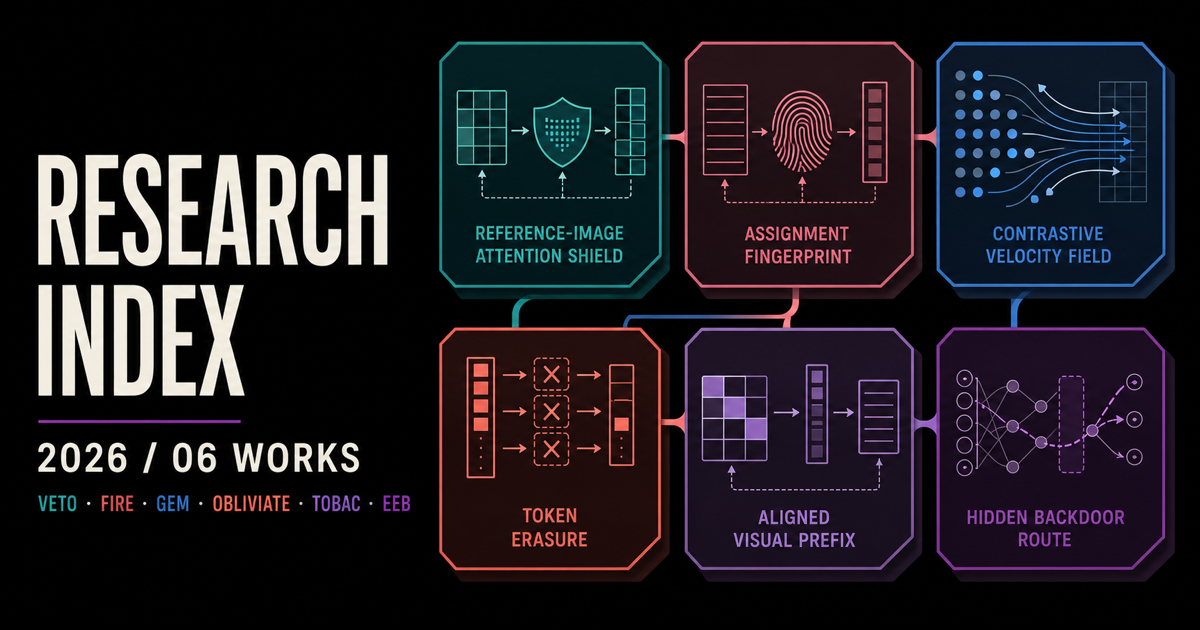
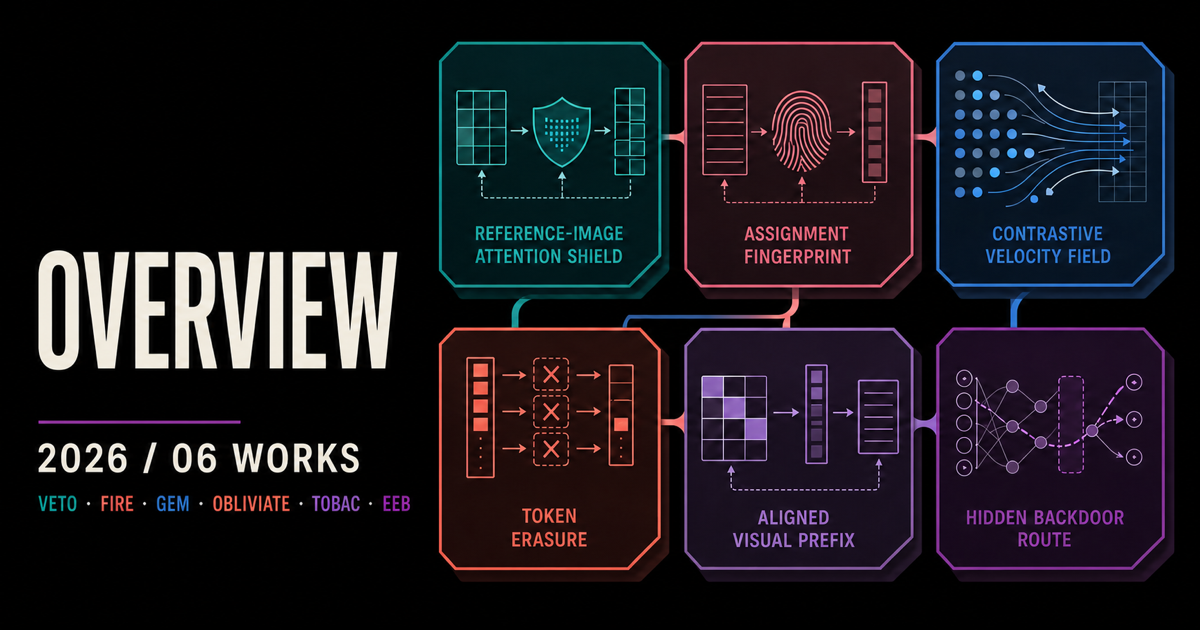
Update authors and overview branding

diff --git a/app/components.tsx b/app/components.tsx
@@ -2,12 +2,41 @@ import Link from "next/link";
 import type { Project } from "@/data/projects";
 import { ThemeToggle } from "./theme-toggle";
 
+const verifiedScholarProfiles: Record<string, string> = {
+  "Anna Rohrbach":
+    "https://scholar.google.com/citations?user=GHpxNQIAAAAJ&hl=en",
+  "Hossein Shakibania":
+    "https://scholar.google.com/citations?user=huveR90AAAAJ",
+  "Marcus Rohrbach":
+    "https://scholar.google.com/citations?user=3kDtybgAAAAJ&hl=en",
+};
+
+const scholarSearchAliases: Record<string, string> = {
+  "Jonas Grebe": "Jonas Henry Grebe",
+};
+
+function googleScholarUrl(authorName: string) {
+  const profile = verifiedScholarProfiles[authorName];
+
+  if (profile) {
+    return profile;
+  }
+
+  const searchName = scholarSearchAliases[authorName] ?? authorName;
+  const query = new URLSearchParams({
+    view_op: "search_authors",
+    mauthors: searchName,
+  });
+
+  return `https://scholar.google.com/citations?${query.toString()}`;
+}
+
 export function SiteHeader() {
   return (
     <header className="site-header">
       <div className="header-inner">
         <Link className="site-wordmark" href="/" aria-label="Back to all projects">
-          Research Index
+          Overview
         </Link>
         <div className="header-actions">
           <Link className="back-link" href="/">
@@ -94,11 +123,14 @@ export function AuthorList({ project }: { project: Project }) {
       <p className="author-list">
         {project.authors.map((author, index) => (
           <span key={author.name}>
-            {author.href ? (
-              <a href={author.href}>{author.name}</a>
-            ) : (
-              author.name
-            )}
+            <a
+              href={author.href ?? googleScholarUrl(author.name)}
+              target="_blank"
+              rel="noreferrer"
+              aria-label={`View ${author.name} on Google Scholar`}
+            >
+              {author.name}
+            </a>
             {author.equalContribution ? (
               <sup aria-label="equal contribution">*</sup>
             ) : null}

diff --git a/app/globals.css b/app/globals.css
@@ -185,25 +185,11 @@ button {
     box-shadow 160ms ease;
 }
 
-.site-wordmark::after {
-  content: "↗";
-  color: var(--muted);
-  font-size: 13px;
-  transition:
-    color 160ms ease,
-    transform 160ms ease;
-}
-
 .site-wordmark:hover {
   transform: translateY(-1px);
   border-color: color-mix(in srgb, var(--text) 34%, var(--line));
   background: var(--surface-raised);
   box-shadow: 0 7px 18px rgba(17, 18, 15, 0.08);
-}
-
-.site-wordmark:hover::after {
-  color: var(--text);
-  transform: translate(2px, -2px);
 }
 
 .site-wordmark:active {
@@ -397,6 +383,7 @@ button {
 .resource-link:focus-visible,
 .back-link:focus-visible,
 .copy-button:focus-visible,
+.author-list a:focus-visible,
 .site-wordmark:focus-visible {
   outline: 3px solid
     color-mix(in srgb, var(--accent, var(--cobalt)) 58%, transparent);
@@ -1135,6 +1122,22 @@ button {
   color: var(--accent);
   font-size: 9px;
   font-weight: 750;
+}
+
+.author-list a {
+  color: inherit;
+  text-decoration: underline;
+  text-decoration-color: color-mix(in srgb, var(--muted) 44%, transparent);
+  text-decoration-thickness: 1px;
+  text-underline-offset: 3px;
+  transition:
+    color 160ms ease,
+    text-decoration-color 160ms ease;
+}
+
+.author-list a:hover {
+  color: var(--accent);
+  text-decoration-color: currentColor;
 }
 
 .author-note {

diff --git a/app/layout.tsx b/app/layout.tsx
@@ -8,31 +8,31 @@ const absoluteSiteUrl = siteUrl.endsWith("/") ? siteUrl : `${siteUrl}/`;
 export const metadata: Metadata = {
   metadataBase: new URL(absoluteSiteUrl),
   title: {
-    default: "Research Index",
-    template: "%s · Research Index",
+    default: "Overview",
+    template: "%s · Overview",
   },
-  description: "A compact index of research projects.",
+  description: "A compact overview of research projects.",
   icons: {
     icon: "/favicon.svg",
     shortcut: "/favicon.svg",
   },
   openGraph: {
-    title: "Research Index",
-    description: "A compact index of research projects.",
+    title: "Overview",
+    description: "A compact overview of research projects.",
     type: "website",
     images: [
       {
         url: new URL("og.png", absoluteSiteUrl),
         width: 1200,
         height: 630,
-        alt: "Research Index — selected work from 2026",
+        alt: "Overview — selected work from 2026",
       },
     ],
   },
   twitter: {
     card: "summary_large_image",
-    title: "Research Index",
-    description: "A compact index of research projects.",
+    title: "Overview",
+    description: "A compact overview of research projects.",
     images: [new URL("og.png", absoluteSiteUrl)],
   },
 };

diff --git a/data/projects.ts b/data/projects.ts
@@ -218,8 +218,8 @@ export const projects: Project[] = [
     location: "Seoul, South Korea",
     acceptanceType: "Spotlight",
     authors: [
-      { name: "Jonas Henry Grebe" },
-      { name: "Tobias Braun" },
+      { name: "Jonas Henry Grebe", equalContribution: true },
+      { name: "Tobias Braun", equalContribution: true },
       { name: "Anna Rohrbach" },
       { name: "Marcus Rohrbach" },
     ],
@@ -388,8 +388,8 @@ export const projects: Project[] = [
     year: 2026,
     status: "Preprint",
     authors: [
-      { name: "Tobias Braun" },
-      { name: "Jonas Henry Grebe" },
+      { name: "Tobias Braun", equalContribution: true },
+      { name: "Jonas Henry Grebe", equalContribution: true },
       { name: "Hossein Shakibania" },
       { name: "Anna Rohrbach" },
       { name: "Marcus Rohrbach" },

diff --git a/app/page.tsx b/app/page.tsx
@@ -13,7 +13,7 @@ export default function Home() {
             href="/"
             aria-label="Back to all projects"
           >
-            Research Index
+            Overview
           </Link>
           <ThemeToggle />
         </div>
@@ -44,7 +44,7 @@ export default function Home() {
       </main>
 
       <footer className="site-footer">
-        <span>Research Index</span>
+        <span>Overview</span>
         <span>2026 · {String(projects.length).padStart(2, "0")} projects</span>
       </footer>
     </>

diff --git a/app/projects/[slug]/page.tsx b/app/projects/[slug]/page.tsx
@@ -157,7 +157,7 @@ export default async function ProjectPage({
         ) : null}
       </main>
       <footer className="site-footer">
-        <Link href="/">Research Index</Link>
+        <Link href="/">Overview</Link>
         <span>{project.conference ?? project.status}</span>
       </footer>
     </div>

diff --git a/app/not-found.tsx b/app/not-found.tsx
@@ -7,7 +7,7 @@ export default function NotFound() {
       <header className="site-header">
         <div className="header-inner">
           <Link className="site-wordmark" href="/">
-            Research Index
+            Overview
           </Link>
           <ThemeToggle />
         </div>
